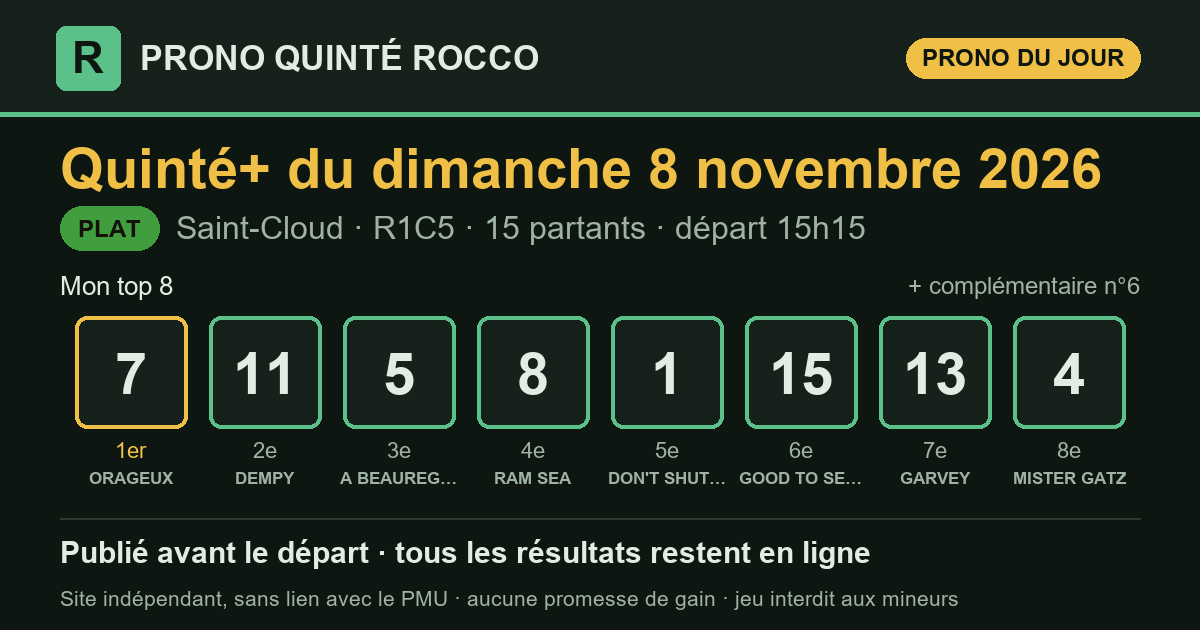
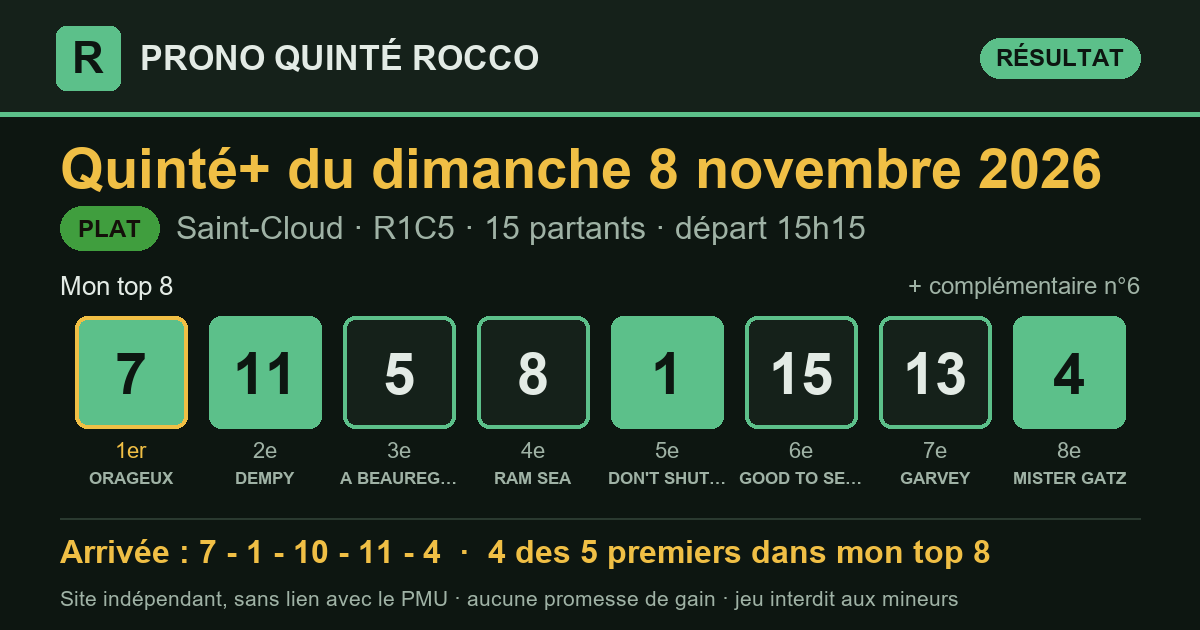
Prono Quinté+ 2026-11-08 Saint-Cloud R1C5 — publié le 08/11/2026 15:33 (heure de Paris)

diff --git a/partants.html b/partants.html
@@ -3,7 +3,7 @@
 <head>
 <meta charset="utf-8">
 <meta name="viewport" content="width=device-width, initial-scale=1, viewport-fit=cover">
-<title>Partants du Quinté+ du dimanche 8 novembre 2026 — Prono Quinté Rocco</title>
+<title>Partants du Quinté+ du lundi 9 novembre 2026 — Prono Quinté Rocco</title>
 <meta name="description" content="Les partants du prochain Quinté+ (programme officiel du PMU), avec le rang de chaque cheval dans mon prono et les liens vers les pronostics de la presse.">
 <link rel="canonical" href="https://prono-quinte-rocco.fr/partants.html">
 <link rel="stylesheet" href="style.css?v=336e7a25">
@@ -13,7 +13,7 @@
 <meta property="og:site_name" content="Prono Quinté Rocco">
 <meta property="og:locale" content="fr_FR">
 <meta property="og:type" content="website">
-<meta property="og:title" content="Partants du Quinté+ du dimanche 8 novembre 2026 — Prono Quinté Rocco">
+<meta property="og:title" content="Partants du Quinté+ du lundi 9 novembre 2026 — Prono Quinté Rocco">
 <meta property="og:description" content="Les partants du prochain Quinté+ (programme officiel du PMU), avec le rang de chaque cheval dans mon prono et les liens vers les pronostics de la presse.">
 <meta property="og:url" content="https://prono-quinte-rocco.fr/partants.html">
 <meta name="twitter:card" content="summary">
@@ -29,100 +29,95 @@
   <p class="surtitre">Programme officiel du PMU</p>
   <h1>Les partants du prochain Quinté+</h1>
   <div class="fiche-course">
-    <p class="fiche-date">Dimanche 8 novembre 2026</p>
-    <div class="fiche-rc"><span class="pastille" title="Réunion 1">R1</span><span class="pastille" title="Course 5">C5</span><span class="fiche-nom">Prix Sagaro</span></div>
-    <p class="meta"><span class="type t-plat">Plat</span>Saint-Cloud · 3 100 m · 15 partants</p>
-    <p class="fiche-depart">Départ <b>15:15</b> <span>heure de Paris</span></p>
+    <p class="fiche-date">Lundi 9 novembre 2026</p>
+    <div class="fiche-rc"><span class="pastille" title="Réunion 1">R1</span><span class="pastille" title="Course 2">C2</span><span class="fiche-nom">Grand Prix de l&#x27;Hippodrome du Bouscat</span></div>
+    <p class="meta"><span class="type t-attele">Trot attelé</span>Le Bouscat · 2 650 m · 15 partants</p>
+    <p class="fiche-depart">Départ <b>13:55</b> <span>heure de Paris</span></p>
   </div>
   <p class="surtitre">Les pronostics ailleurs sur le web</p>
-  <div class="liens"><a class="lien-ext" href="https://www.turfoo.fr/programmes-courses/261108/reunion1-saint-cloud/course5-prix-sagaro/pronostics-presse/" rel="noopener" target="_blank"><b>Les pronostics de la presse →</b><span>sur Turfoo (site extérieur)</span></a><a class="lien-ext" href="https://www.geny.com/programme/2026-11-08" rel="noopener" target="_blank"><b>Partants et pronostics →</b><span>programme du jour sur Geny (site extérieur)</span></a></div>
+  <div class="liens"><a class="lien-ext" href="https://www.turfoo.fr/programmes-courses/261109/reunion1-bordeaux-le-bouscat/course2-grand-prix-de-l-hippodrome-du-bouscat/pronostics-presse/" rel="noopener" target="_blank"><b>Les pronostics de la presse →</b><span>sur Turfoo (site extérieur)</span></a><a class="lien-ext" href="https://www.geny.com/programme/2026-11-09" rel="noopener" target="_blank"><b>Partants et pronostics →</b><span>programme du jour sur Geny (site extérieur)</span></a></div>
   <div class="liste-boite"><table class="liste-partants">
     <thead><tr><th>N°</th><th>Cheval</th><th class="cote"><span class="long">Cote du matin</span><span class="court">Cote</span></th>
     <th class="ia"><span class="long">Mon prono</span><span class="court">Prono</span></th></tr></thead>
     <tbody><tr>
   <td><span class="tapis petit">1</span></td>
-  <td><span class="cheval">DON&#x27;T SHUT ME DOWN</span><span class="sous">M.GUYON · P&amp;J.BRANDT (S)</span></td>
-  <td class="cote num">10,0</td>
-  <td class="ia"><span class="etat place">5<sup>e</sup></span></td>
+  <td><span class="cheval">DUNA DI GIRIFALCO</span><span class="sous">Mme LANA HENRY · Y. HENRY</span></td>
+  <td class="cote num">—</td>
+  <td class="ia">—</td>
 </tr><tr>
   <td><span class="tapis petit">2</span></td>
-  <td><span class="cheval">HOMO DEUS</span><span class="sous">PC.BOUDOT · H.GHABRI</span></td>
-  <td class="cote num">32,0</td>
+  <td><span class="cheval">ROSSI GARLINE</span><span class="sous">F. GUERINEAU · A. RIPOLL RIGO</span></td>
+  <td class="cote num">—</td>
   <td class="ia">—</td>
 </tr><tr>
   <td><span class="tapis petit">3</span></td>
-  <td><span class="cheval">BLACK SAXON</span><span class="sous">A.MADAMET · N.BELLANGER (S)</span></td>
-  <td class="cote num">24,0</td>
+  <td><span class="cheval">STARO RAILI</span><span class="sous">A. COLLETTE · Mme Sofia ARONSSON</span></td>
+  <td class="cote num">—</td>
   <td class="ia">—</td>
 </tr><tr>
   <td><span class="tapis petit">4</span></td>
-  <td><span class="cheval">MISTER GATZ</span><span class="sous">S.PASQUIER · S.NIGGE (S)</span></td>
-  <td class="cote num">21,0</td>
-  <td class="ia"><span class="etat place">8<sup>e</sup></span></td>
+  <td><span class="cheval">NELSON GREENWOOD</span><span class="sous">B. ROCHARD · D. LOCQUENEUX</span></td>
+  <td class="cote num">—</td>
+  <td class="ia">—</td>
 </tr><tr>
   <td><span class="tapis petit">5</span></td>
-  <td><span class="cheval">A BEAUREGARD</span><span class="sous">D.PROVOST · M.CESANDRI (S)</span></td>
-  <td class="cote num">9,8</td>
-  <td class="ia"><span class="etat place">3<sup>e</sup></span></td>
+  <td><span class="cheval">KEROSEN DU GERS</span><span class="sous">E. LELIEVRE · E. LELIEVRE</span></td>
+  <td class="cote num">—</td>
+  <td class="ia">—</td>
 </tr><tr>
   <td><span class="tapis petit">6</span></td>
-  <td><span class="cheval">MON RICIN</span><span class="sous">A.LEMAITRE · TIM.DONWORTH (S)</span></td>
-  <td class="cote num">15,0</td>
-  <td class="ia"><span class="etat place">compl.</span></td>
+  <td><span class="cheval">KASSIOPEE WIND</span><span class="sous">CL. DUVALDESTIN · TH. DUVALDESTIN</span></td>
+  <td class="cote num">—</td>
+  <td class="ia">—</td>
 </tr><tr>
   <td><span class="tapis petit">7</span></td>
-  <td><span class="cheval">ORAGEUX</span><span class="sous">M.BARZALONA · J.REYNIER (S)</span></td>
-  <td class="cote num">5,3</td>
-  <td class="ia"><span class="etat place">1<sup>er</sup></span></td>
+  <td><span class="cheval">JACKSON D&#x27;ARC</span><span class="sous">PIERRICK LE MOEL · Pierrick LE MOEL</span></td>
+  <td class="cote num">—</td>
+  <td class="ia">—</td>
 </tr><tr>
   <td><span class="tapis petit">8</span></td>
-  <td><span class="cheval">RAM SEA</span><span class="sous">L.BRECHET · D.MELE (S)</span></td>
-  <td class="cote num">8,7</td>
-  <td class="ia"><span class="etat place">4<sup>e</sup></span></td>
+  <td><span class="cheval">GALANT DE CAREL</span><span class="sous">C. GAZENGEL · C. GAZENGEL</span></td>
+  <td class="cote num">—</td>
+  <td class="ia">—</td>
 </tr><tr>
   <td><span class="tapis petit">9</span></td>
-  <td><span class="cheval">PAOLINO</span><span class="sous">A.HAMELIN · D&amp;P.PROD&#x27;HOMME (S)</span></td>
-  <td class="cote num">21,0</td>
+  <td><span class="cheval">IDOLE OF LOVE</span><span class="sous">D. BROSSARD · E. VARIN</span></td>
+  <td class="cote num">—</td>
   <td class="ia">—</td>
 </tr><tr>
   <td><span class="tapis petit">10</span></td>
-  <td><span class="cheval">DARK ROCKSTER</span><span class="sous">C.LECOEUVRE · S.WATTEL (S)</span></td>
-  <td class="cote num">14,0</td>
+  <td><span class="cheval">IRIS DES ROSEAUX</span><span class="sous">P. GERAY · A. BARRE</span></td>
+  <td class="cote num">—</td>
   <td class="ia">—</td>
 </tr><tr>
   <td><span class="tapis petit">11</span></td>
-  <td><span class="cheval">DEMPY</span><span class="sous">C.SOUMILLON · D.BONILLA (S)</span></td>
-  <td class="cote num">6,2</td>
-  <td class="ia"><span class="etat place">2<sup>e</sup></span></td>
+  <td><span class="cheval">GERICAULT</span><span class="sous">M. ABRIVARD · V. MARTENS</span></td>
+  <td class="cote num">—</td>
+  <td class="ia">—</td>
 </tr><tr>
   <td><span class="tapis petit">12</span></td>
-  <td><span class="cheval">LUCIO VERO</span><span class="sous">A.MEKOUCHE · R.AVIAL LOPEZ</span></td>
-  <td class="cote num">27,0</td>
+  <td><span class="cheval">HOLLYWOOD DU BOIS</span><span class="sous">J.Y. RICART · Mlle CL. BEILEARD</span></td>
+  <td class="cote num">—</td>
   <td class="ia">—</td>
 </tr><tr>
   <td><span class="tapis petit">13</span></td>
-  <td><span class="cheval">GARVEY</span><span class="sous">E.HARDOUIN · MME E.MADER</span></td>
-  <td class="cote num">13,0</td>
-  <td class="ia"><span class="etat place">7<sup>e</sup></span></td>
+  <td><span class="cheval">ICARE DU BERYL</span><span class="sous">M. CRIADO · Y. LACOMBE</span></td>
+  <td class="cote num">—</td>
+  <td class="ia">—</td>
 </tr><tr>
   <td><span class="tapis petit">14</span></td>
-  <td><span class="cheval">ZARFLIGHT</span><span class="sous">F.VERON · GAB.LEENDERS (S)</span></td>
-  <td class="cote num">32,0</td>
+  <td><span class="cheval">HOLD UP DES VENTES</span><span class="sous">M. GILARD · M. GILARD</span></td>
+  <td class="cote num">—</td>
   <td class="ia">—</td>
 </tr><tr>
   <td><span class="tapis petit">15</span></td>
-  <td><span class="cheval">GOOD TO SEE YOU</span><span class="sous">A.CRASTUS · MME A.WATTEL</span></td>
-  <td class="cote num">16,0</td>
-  <td class="ia"><span class="etat place">6<sup>e</sup></span></td>
-</tr><tr class="np">
-  <td><span class="tapis petit">16</span></td>
-  <td><span class="cheval">SEEYOUGO</span><span class="sous">NON PARTANT · MME J.LE STANG</span></td>
-  <td class="cote num">NP</td>
+  <td><span class="cheval">ELEGANCE KRONOS</span><span class="sous">A. ABRIVARD · L.CL. ABRIVARD</span></td>
+  <td class="cote num">—</td>
   <td class="ia">—</td>
 </tr></tbody>
   </table></div>
-  <p class="meta">La colonne « Mon prono » donne le rang de chaque cheval dans mon top 8, tel qu&#x27;il est publié sur ce site. Sous chaque cheval : jockey · entraîneur. Partants et cotes : programme
-  officiel du PMU, lu le 08/11 à 10:30 (heure de Paris). NP = non-partant.</p>
+  <p class="meta">Mon prono de cette course sera publié le matin de la course, avant le départ. Sous chaque cheval : driver · entraîneur. Partants et cotes : programme
+  officiel du PMU, lu le 08/11 à 15:33 (heure de Paris). NP = non-partant.</p>
 </section>
 </main>
 <footer class="pied">

diff --git a/index.html b/index.html
@@ -16,7 +16,7 @@
 <meta property="og:title" content="Pronostic Quinté+ du dimanche 8 novembre 2026 — Prono Quinté Rocco">
 <meta property="og:description" content="Pronostic Quinté+ du jour : mon top 8, publié avant le départ, puis tous les résultats et le rendement réel.">
 <meta property="og:url" content="https://prono-quinte-rocco.fr/">
-<meta property="og:image" content="https://prono-quinte-rocco.fr/partage/2026-11-08.png?v=4f21b7ba">
+<meta property="og:image" content="https://prono-quinte-rocco.fr/partage/2026-11-08.png?v=513199df">
 <meta property="og:image:type" content="image/png">
 <meta property="og:image:width" content="1200">
 <meta property="og:image:height" content="630">
@@ -31,7 +31,7 @@
 </header>
 <main>
 <section class="une" aria-labelledby="t-jour">
-  <p class="surtitre">Quinté+ du jour</p>
+  <p class="surtitre">Dernier Quinté+</p>
   <h1 id="t-jour">Le prono du Quinté+, résultats compris</h1>
   <p class="chapo">Chaque matin, j'étudie les partants du Quinté+ avec le logiciel que
   j'ai conçu, selon ma propre méthode, qu'une intelligence artificielle m'aide à
@@ -42,10 +42,13 @@
   <p class="meta">Saint-Cloud · <strong>R1C5</strong> · 15 partants · <span class="lisib">lisibilité <span class="note" aria-label="note 3 sur 5" title="lisibilité 3/5 : course assez ouverte"><i class="on"></i><i class="on"></i><i class="on"></i><i class=""></i><i class=""></i></span> 3/5</span></p>
   <div class="zone-prono">
     <h3 class="zone-titre">Mon top 8</h3>
-    <ol class="partants" aria-label="Mon top 8"><li><span class="rang">1<sup>er</sup></span><span class="tapis ">7</span><span class="nom">ORAGEUX</span></li><li><span class="rang">2<sup>e</sup></span><span class="tapis ">11</span><span class="nom">DEMPY</span></li><li><span class="rang">3<sup>e</sup></span><span class="tapis ">5</span><span class="nom">A BEAUREGARD</span></li><li><span class="rang">4<sup>e</sup></span><span class="tapis ">8</span><span class="nom">RAM SEA</span></li><li><span class="rang">5<sup>e</sup></span><span class="tapis ">1</span><span class="nom">DON&#x27;T SHUT ME DOWN</span></li><li><span class="rang">6<sup>e</sup></span><span class="tapis ">15</span><span class="nom">GOOD TO SEE YOU</span></li><li><span class="rang">7<sup>e</sup></span><span class="tapis ">13</span><span class="nom">GARVEY</span></li><li><span class="rang">8<sup>e</sup></span><span class="tapis ">4</span><span class="nom">MISTER GATZ</span></li><li><span class="rang">compl.</span><span class="tapis creux">6</span><span class="nom">MON RICIN</span></li></ol>
+    <ol class="partants" aria-label="Mon top 8"><li><span class="rang">1<sup>er</sup></span><span class="tapis plein">7</span><span class="nom">ORAGEUX</span></li><li><span class="rang">2<sup>e</sup></span><span class="tapis plein">11</span><span class="nom">DEMPY</span></li><li><span class="rang">3<sup>e</sup></span><span class="tapis ">5</span><span class="nom">A BEAUREGARD</span></li><li><span class="rang">4<sup>e</sup></span><span class="tapis ">8</span><span class="nom">RAM SEA</span></li><li><span class="rang">5<sup>e</sup></span><span class="tapis plein">1</span><span class="nom">DON&#x27;T SHUT ME DOWN</span></li><li><span class="rang">6<sup>e</sup></span><span class="tapis ">15</span><span class="nom">GOOD TO SEE YOU</span></li><li><span class="rang">7<sup>e</sup></span><span class="tapis ">13</span><span class="nom">GARVEY</span></li><li><span class="rang">8<sup>e</sup></span><span class="tapis plein">4</span><span class="nom">MISTER GATZ</span></li><li><span class="rang">compl.</span><span class="tapis creux">6</span><span class="nom">MON RICIN</span></li></ol>
     <div class="pied-carte"><span>Analysé le 08/11 à 10:28 · en ligne le 08/11 à 10:30 · départ à 15:15 (heure de Paris)</span><span><a href="quinte/2026-11-08.html">Détail de la course</a></span></div>
   </div>
-  <div class="zone-arrivee attente"><p>L'arrivée officielle s'affichera ici après la course.</p></div>
+  <div class="zone-arrivee">
+    <div class="zone-tete"><h3 class="zone-titre">Arrivée officielle</h3><span class="etat place">4 des 5 premiers dans mon top 8</span><span class="etat gagne">mon 1er (n°7) : gagnant</span></div>
+    <ol class="partants" aria-label="Arrivée officielle"><li><span class="rang">1<sup>er</sup></span><span class="tapis plein">7</span><span class="nom">ORAGEUX</span></li><li><span class="rang">2<sup>e</sup></span><span class="tapis plein">1</span><span class="nom">DON&#x27;T SHUT ME DOWN</span></li><li><span class="rang">3<sup>e</sup></span><span class="tapis hors">10</span><span class="nom">DARK ROCKSTER</span></li><li><span class="rang">4<sup>e</sup></span><span class="tapis plein">11</span><span class="nom">DEMPY</span></li><li><span class="rang">5<sup>e</sup></span><span class="tapis plein">4</span><span class="nom">MISTER GATZ</span></li></ol>
+  </div>
 </article>
 </section>
 <section class="suivre" aria-label="Suivre et soutenir">
@@ -75,7 +78,7 @@
 </section>
 <section class="bilan" aria-labelledby="t-bilan">
   <h2 id="t-bilan">Mon bilan depuis le 8 septembre 2026</h2>
-  <div class="tableau chiffres"><div class="case"><span class="gros ">73 %</span><span class="lib">des arrivants trouvés dans mon top 8</span><span class="ref">un top 8 tiré au hasard : 51 %</span></div><div class="case"><span class="gros ">88 %</span><span class="lib">des gagnants présents dans mon top 8</span><span class="ref"></span></div><div class="case"><span class="gros ">48 %</span><span class="lib">mon 1er placé</span><span class="ref">sur 60 Quintés</span></div><div class="case"><span class="gros perte">0,89 €</span><span class="lib">rendus pour 1 € joué placé sur mon 1er</span><span class="ref">rapports officiels PMU</span></div><div class="case"><span class="gros perte">0,44 €</span><span class="lib">rendus pour 1 € joué en Quinté+ combiné sur mon top 8</span><span class="ref">56 combinaisons, rapports PMU.fr, sur 60 Quintés</span></div></div>
+  <div class="tableau chiffres"><div class="case"><span class="gros ">73 %</span><span class="lib">des arrivants trouvés dans mon top 8</span><span class="ref">un top 8 tiré au hasard : 51 %</span></div><div class="case"><span class="gros ">89 %</span><span class="lib">des gagnants présents dans mon top 8</span><span class="ref"></span></div><div class="case"><span class="gros ">48 %</span><span class="lib">mon 1er placé</span><span class="ref">sur 60 Quintés</span></div><div class="case"><span class="gros perte">0,89 €</span><span class="lib">rendus pour 1 € joué placé sur mon 1er</span><span class="ref">rapports officiels PMU</span></div><div class="case"><span class="gros perte">0,44 €</span><span class="lib">rendus pour 1 € joué en Quinté+ combiné sur mon top 8</span><span class="ref">56 combinaisons, rapports PMU.fr, sur 61 Quintés</span></div></div>
   <p class="avertissement">Moins de 1 € rendu pour 1 € joué : suivre mon prono à la lettre fait <strong>perdre de l'argent</strong> sur cette période. Il sert à analyser une course, pas à promettre un gain.</p>
 </section>
 </main>

diff --git a/quinte/2026-11-08.html b/quinte/2026-11-08.html
@@ -16,7 +16,7 @@
 <meta property="og:title" content="Pronostic Quinté+ du dimanche 8 novembre 2026 à Saint-Cloud — Prono Quinté Rocco">
 <meta property="og:description" content="Prono Quinté+ du dimanche 8 novembre 2026 (Saint-Cloud) : mon top 8, l&#x27;arrivée officielle et les rapports PMU.fr.">
 <meta property="og:url" content="https://prono-quinte-rocco.fr/quinte/2026-11-08.html">
-<meta property="og:image" content="https://prono-quinte-rocco.fr/partage/2026-11-08.png?v=4f21b7ba">
+<meta property="og:image" content="https://prono-quinte-rocco.fr/partage/2026-11-08.png?v=513199df">
 <meta property="og:image:type" content="image/png">
 <meta property="og:image:width" content="1200">
 <meta property="og:image:height" content="630">
@@ -35,15 +35,25 @@
   <h1>Pronostic Quinté+ du dimanche 8 novembre 2026</h1>
   <p class="chapo">Saint-Cloud · R1C5 · Plat · 15 partants</p>
   <article class="carte-course">
-  <div class="tete"><h2>Mon prono</h2><span class="type t-plat">Plat</span></div>
+  <div class="tete"><h2>Mon prono et l&#x27;arrivée officielle</h2><span class="type t-plat">Plat</span></div>
   <p class="meta">Saint-Cloud · <strong>R1C5</strong> · 15 partants · <span class="lisib">lisibilité <span class="note" aria-label="note 3 sur 5" title="lisibilité 3/5 : course assez ouverte"><i class="on"></i><i class="on"></i><i class="on"></i><i class=""></i><i class=""></i></span> 3/5</span></p>
   <div class="zone-prono">
     <h3 class="zone-titre">Mon top 8</h3>
-    <ol class="partants" aria-label="Mon top 8"><li><span class="rang">1<sup>er</sup></span><span class="tapis ">7</span><span class="nom">ORAGEUX</span></li><li><span class="rang">2<sup>e</sup></span><span class="tapis ">11</span><span class="nom">DEMPY</span></li><li><span class="rang">3<sup>e</sup></span><span class="tapis ">5</span><span class="nom">A BEAUREGARD</span></li><li><span class="rang">4<sup>e</sup></span><span class="tapis ">8</span><span class="nom">RAM SEA</span></li><li><span class="rang">5<sup>e</sup></span><span class="tapis ">1</span><span class="nom">DON&#x27;T SHUT ME DOWN</span></li><li><span class="rang">6<sup>e</sup></span><span class="tapis ">15</span><span class="nom">GOOD TO SEE YOU</span></li><li><span class="rang">7<sup>e</sup></span><span class="tapis ">13</span><span class="nom">GARVEY</span></li><li><span class="rang">8<sup>e</sup></span><span class="tapis ">4</span><span class="nom">MISTER GATZ</span></li><li><span class="rang">compl.</span><span class="tapis creux">6</span><span class="nom">MON RICIN</span></li></ol>
+    <ol class="partants" aria-label="Mon top 8"><li><span class="rang">1<sup>er</sup></span><span class="tapis plein">7</span><span class="nom">ORAGEUX</span></li><li><span class="rang">2<sup>e</sup></span><span class="tapis plein">11</span><span class="nom">DEMPY</span></li><li><span class="rang">3<sup>e</sup></span><span class="tapis ">5</span><span class="nom">A BEAUREGARD</span></li><li><span class="rang">4<sup>e</sup></span><span class="tapis ">8</span><span class="nom">RAM SEA</span></li><li><span class="rang">5<sup>e</sup></span><span class="tapis plein">1</span><span class="nom">DON&#x27;T SHUT ME DOWN</span></li><li><span class="rang">6<sup>e</sup></span><span class="tapis ">15</span><span class="nom">GOOD TO SEE YOU</span></li><li><span class="rang">7<sup>e</sup></span><span class="tapis ">13</span><span class="nom">GARVEY</span></li><li><span class="rang">8<sup>e</sup></span><span class="tapis plein">4</span><span class="nom">MISTER GATZ</span></li><li><span class="rang">compl.</span><span class="tapis creux">6</span><span class="nom">MON RICIN</span></li></ol>
     <div class="pied-carte"><span>Analysé le 08/11 à 10:28 · en ligne le 08/11 à 10:30 · départ à 15:15 (heure de Paris)</span><span></span></div>
   </div>
-  <div class="zone-arrivee attente"><p>L'arrivée officielle s'affichera ici après la course.</p></div>
+  <div class="zone-arrivee">
+    <div class="zone-tete"><h3 class="zone-titre">Arrivée officielle</h3><span class="etat place">4 des 5 premiers dans mon top 8</span><span class="etat gagne">mon 1er (n°7) : gagnant</span></div>
+    <ol class="partants" aria-label="Arrivée officielle"><li><span class="rang">1<sup>er</sup></span><span class="tapis plein">7</span><span class="nom">ORAGEUX</span></li><li><span class="rang">2<sup>e</sup></span><span class="tapis plein">1</span><span class="nom">DON&#x27;T SHUT ME DOWN</span></li><li><span class="rang">3<sup>e</sup></span><span class="tapis hors">10</span><span class="nom">DARK ROCKSTER</span></li><li><span class="rang">4<sup>e</sup></span><span class="tapis plein">11</span><span class="nom">DEMPY</span></li><li><span class="rang">5<sup>e</sup></span><span class="tapis plein">4</span><span class="nom">MISTER GATZ</span></li></ol>
+  </div>
 </article>
+<section class="carte-course rapports" aria-labelledby="t-rap">
+  <div class="tete"><h2 id="t-rap">Les rapports</h2></div>
+  <div class="deux">
+    <div><h3>Ce qu'aurait rendu mon prono</h3><dl class="kv"><dt>1 € placé sur mon 1er (n°7)</dt><dd>rapport manquant</dd><dt>1 € gagnant sur mon 1er</dt><dd>rapport manquant</dd><dt>Quinté+ combiné sur mon top 8 (mise 112 €)</dt><dd class="perte">16,80 €</dd><dt>dont</dt><dd>Bonus 4sur5 × 4</dd></dl></div>
+    <div><h3>Rapports officiels</h3><dl class="kv"><dt>e-Quinté+ Ordre (2 €)</dt><dd>3 381,20 €</dd><dt>e-Quinté+ Désordre (2 €)</dt><dd>44,40 €</dd><dt>e-Bonus 4sur5 (2 €)</dt><dd>4,20 €</dd><dt>e-Bonus 3 (2 €)</dt><dd>3,40 €</dd></dl></div>
+  </div>
+</section>
 </section>
 </main>
 <footer class="pied">

diff --git a/resultats.html b/resultats.html
@@ -47,12 +47,12 @@
     <th colspan="4" class="res g-res">Le résultat officiel</th></tr>
     <tr><th>Date</th><th>Course</th><th>Top 8</th><th class="c-lis">Lisibilité</th><th class="res c-arr">Arrivée</th>
     <th class="res">Trouvés</th><th class="res">Mon 1er</th><th class="res mont">Quinté+ top 8<br><small>(mise 112 €)</small></th></tr></thead>
-    <tbody><tr class="attente">
+    <tbody><tr>
   <td class="c-date"><a href="quinte/2026-11-08.html">08/11</a></td>
   <td class="c-course">Saint-Cloud<br><span class="meta">R1C5</span><span class="type t-plat petit">Plat</span></td>
-  <td class="c-top8" data-label="Mon top 8"><div class="rangee"><span class="tapis petit">7</span><span class="tapis petit">11</span><span class="tapis petit">5</span><span class="tapis petit">8</span><span class="tapis petit">1</span><span class="tapis petit">15</span><span class="tapis petit">13</span><span class="tapis petit">4</span></div></td>
+  <td class="c-top8" data-label="Mon top 8"><div class="rangee"><span class="tapis plein petit">7</span><span class="tapis plein petit">11</span><span class="tapis petit">5</span><span class="tapis petit">8</span><span class="tapis plein petit">1</span><span class="tapis petit">15</span><span class="tapis petit">13</span><span class="tapis plein petit">4</span></div></td>
   <td class="c-lis" data-label="Lisibilité"><span class="note" aria-label="note 3 sur 5" title="lisibilité 3/5 : course assez ouverte"><i class="on"></i><i class="on"></i><i class="on"></i><i class=""></i><i class=""></i></span> 3/5</td>
-  <td class="res c-arr" data-label="Arrivée"><span class="etat attente">en attente</span></td><td class="res num c-trouves" data-label="Trouvés">—</td><td class="res c-premier" data-label="Mon 1er"><span class="etat attente">—</span></td><td class="res mont c-mont" data-label="Quinté+ top 8 (mise 112 €)">—</td>
+  <td class="res c-arr" data-label="Arrivée"><div class="rangee"><span class="tapis plein petit" title="1er">7</span><span class="tapis plein petit" title="2e">1</span><span class="tapis hors petit" title="3e">10</span><span class="tapis plein petit" title="4e">11</span><span class="tapis plein petit" title="5e">4</span></div></td><td class="res num c-trouves" data-label="Trouvés"><span class="etat place" title="4 des 5 premiers sont dans mon top 8">4/5</span></td><td class="res c-premier" data-label="Mon 1er"><span class="etat gagne">gagnant</span></td><td class="res mont c-mont perte" data-label="Quinté+ top 8 (mise 112 €)" title="perte nette : 95,20 €">16,80 €</td>
 </tr><tr>
   <td class="c-date"><a href="quinte/2026-11-07.html">07/11</a></td>
   <td class="c-course">Deauville<br><span class="meta">R1C3</span><span class="type t-plat petit">Plat</span></td>
@@ -418,7 +418,7 @@
 </section>
 <section class="bilan" aria-labelledby="t-bilan">
   <h2 id="t-bilan">Mon bilan depuis le 8 septembre 2026</h2>
-  <div class="tableau chiffres"><div class="case"><span class="gros ">73 %</span><span class="lib">des arrivants trouvés dans mon top 8</span><span class="ref">un top 8 tiré au hasard : 51 %</span></div><div class="case"><span class="gros ">88 %</span><span class="lib">des gagnants présents dans mon top 8</span><span class="ref"></span></div><div class="case"><span class="gros ">48 %</span><span class="lib">mon 1er placé</span><span class="ref">sur 60 Quintés</span></div><div class="case"><span class="gros perte">0,89 €</span><span class="lib">rendus pour 1 € joué placé sur mon 1er</span><span class="ref">rapports officiels PMU</span></div><div class="case"><span class="gros perte">0,44 €</span><span class="lib">rendus pour 1 € joué en Quinté+ combiné sur mon top 8</span><span class="ref">56 combinaisons, rapports PMU.fr, sur 60 Quintés</span></div></div>
+  <div class="tableau chiffres"><div class="case"><span class="gros ">73 %</span><span class="lib">des arrivants trouvés dans mon top 8</span><span class="ref">un top 8 tiré au hasard : 51 %</span></div><div class="case"><span class="gros ">89 %</span><span class="lib">des gagnants présents dans mon top 8</span><span class="ref"></span></div><div class="case"><span class="gros ">48 %</span><span class="lib">mon 1er placé</span><span class="ref">sur 60 Quintés</span></div><div class="case"><span class="gros perte">0,89 €</span><span class="lib">rendus pour 1 € joué placé sur mon 1er</span><span class="ref">rapports officiels PMU</span></div><div class="case"><span class="gros perte">0,44 €</span><span class="lib">rendus pour 1 € joué en Quinté+ combiné sur mon top 8</span><span class="ref">56 combinaisons, rapports PMU.fr, sur 61 Quintés</span></div></div>
   <p class="avertissement">Moins de 1 € rendu pour 1 € joué : suivre mon prono à la lettre fait <strong>perdre de l'argent</strong> sur cette période. Il sert à analyser une course, pas à promettre un gain.</p>
 </section>
 </main>
